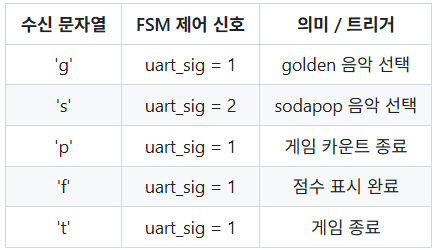
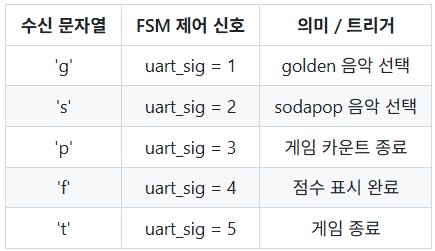
update

diff --git a/README.md b/README.md
@@ -318,18 +318,10 @@ assign red = r_is_max && s_is_ok;
 |:---------:|:------------:|:----------------:|
 |'g'        | uart_sig = 1 | golden 음악 선택  |
 |'s'        | uart_sig = 2 | sodapop 음악 선택 |
-|'p'        | uart_sig = 1 | 게임 카운트 종료   |
-|'f'        | uart_sig = 1 | 점수 표시 완료     |
-|'t'        | uart_sig = 1 | 게임 종료         | 
--->
-
-| 수신 문자열 | FSM 제어 신호 | 의미 / 트리거     |
-|:---------:|:------------:|:----------------:|
-|'g'        | uart_sig = 1 | golden 음악 선택  |
-|'s'        | uart_sig = 2 | sodapop 음악 선택 |
 |'p'        | uart_sig = 3 | 게임 카운트 종료   |
 |'f'        | uart_sig = 4 | 점수 표시 완료     |
 |'t'        | uart_sig = 5 | 게임 종료         | 
+-->
 
 Uart Sender FSM| tx | rx
 --|--|--
